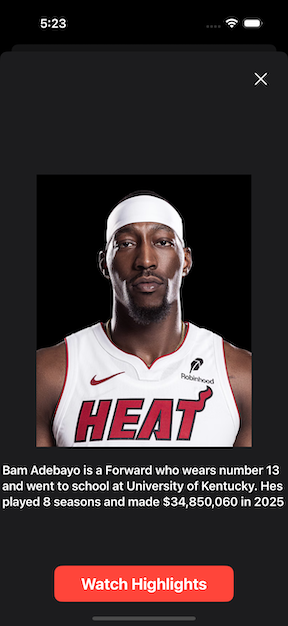
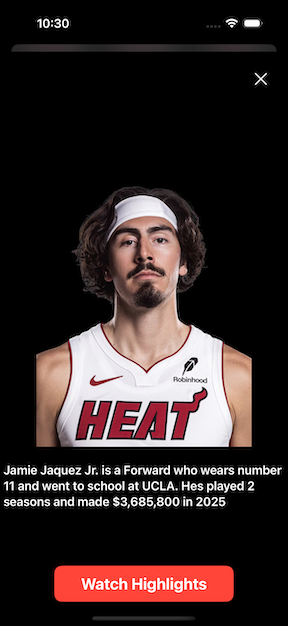
updated readme screenshots

diff --git a/README.md b/README.md
@@ -6,7 +6,7 @@ like navigation, list views, and data-driven UI
 
 ## 📸 Screenshots
 
-![default view](defaultview.png) ![detail view](detailview.png)
+![default view](defaultview.png) ![detail view](detailview.png) ![chart view](chartview.png)
 
 ## 🚀 Features
 
